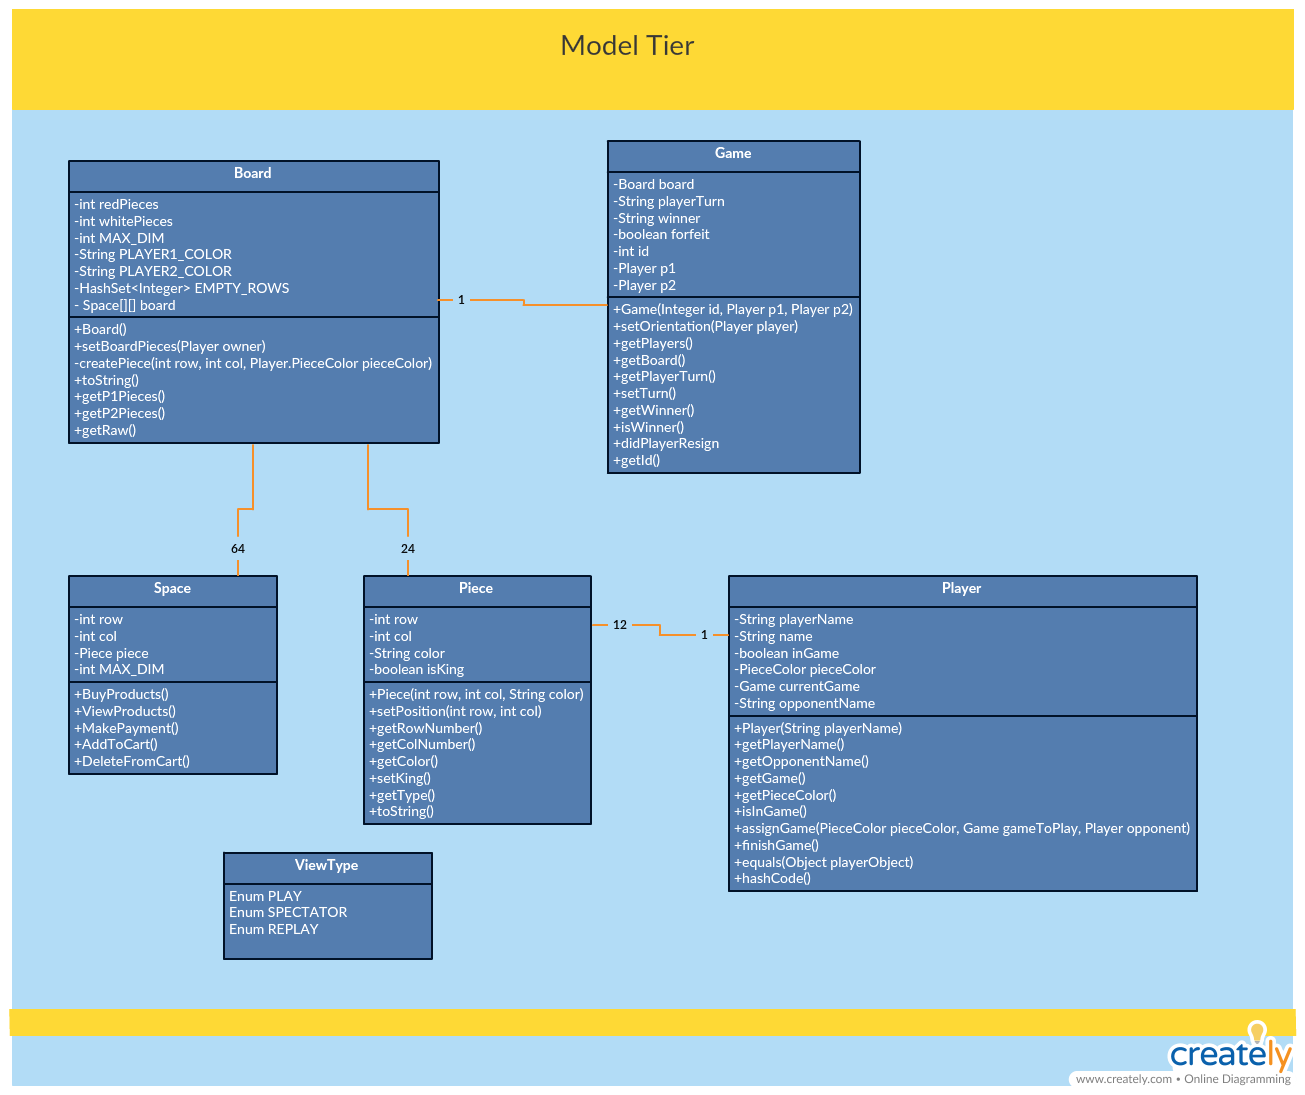
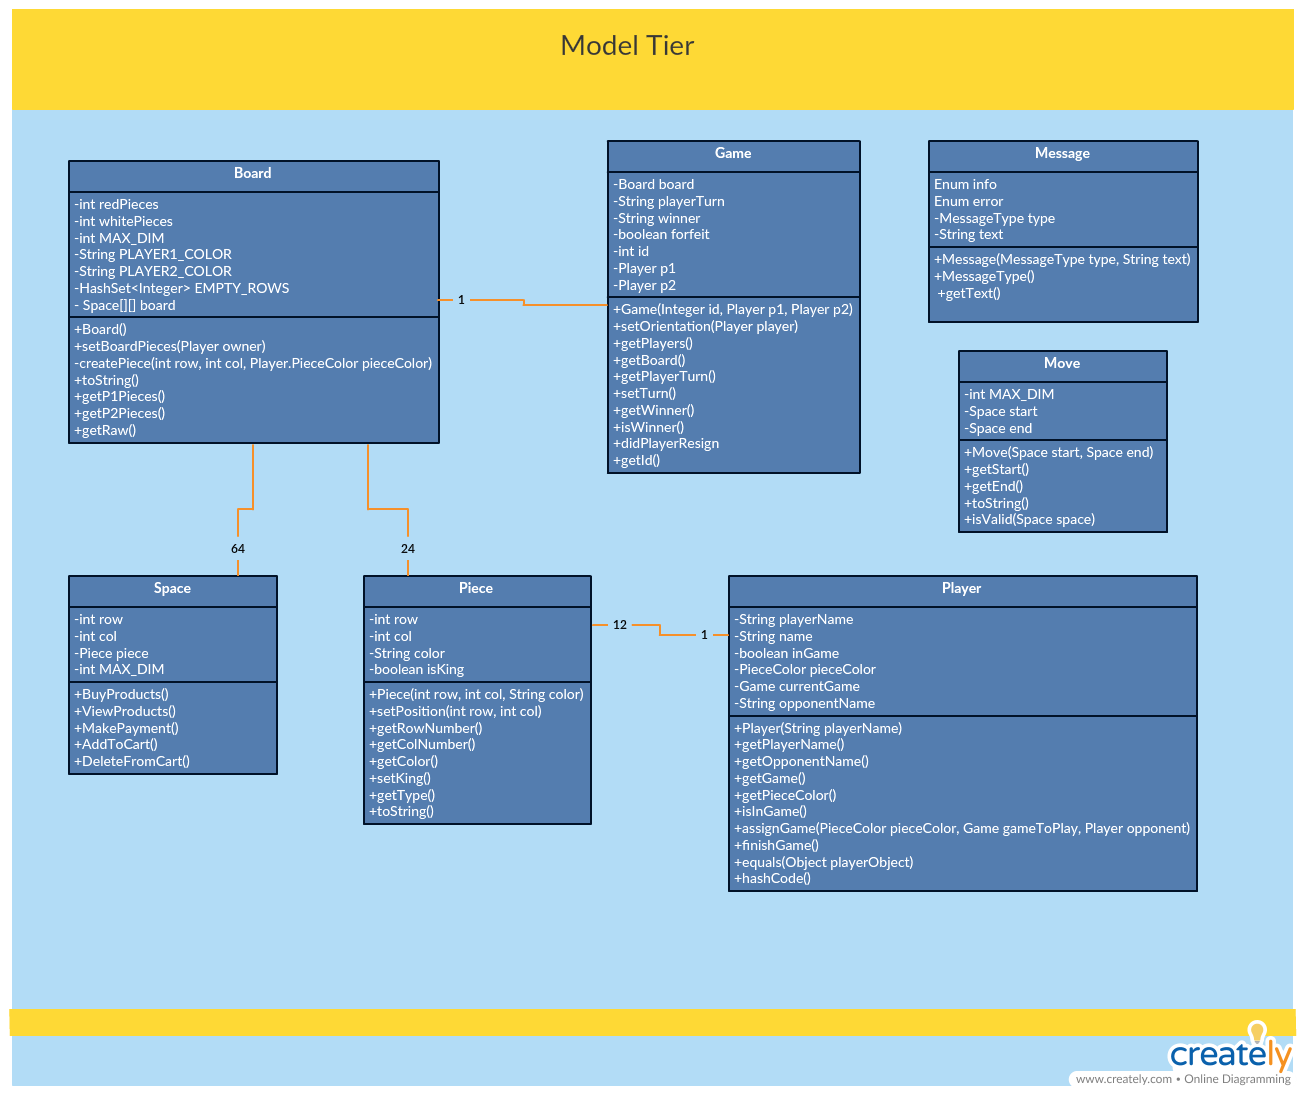
wrote up the model-tier summary and model, updated acceptance plan excel

Changed region(s): [[0.705, 0.1242, 0.9195, 0.4968], [0.1533, 0.7763, 0.3372, 0.9005]]

diff --git a/docs/DesignDoc.md b/docs/DesignDoc.md
@@ -129,11 +129,17 @@ shows how the different components of the application tier communicate between e
 
 Add dynamic models here and then they describe the dynamic  behavior over time of different objrcts and how they wor togehrer.
 ### Model Tier
-> Provide a summary of the Model tier of your architecture.
-> Describe the types of components in the tier and describe their responsibilities.
+The model tier works to emulate the various pieces that make up a game of checkers including a Game object which
+emulates the game overall holding the board and players and determining a winner once one of the win conditions has
+been achieved. Moving to the Board object which works as the board of the game responsible for holding spaces and moving
+pieces around when needed. A Space is the object which fills up the board object and holds pieces in place their places
+as well. Next is the piece object which acts as the pieces on a checkers board which which have their own color and
+location, additionally know if they are a king piece or not. Next is the Player object which holds the total amount
+of pieces left, as well as keep track if they are in a game for the server's sake. Finally are the Move and Message
+objects, which act as helper functions with Move it helps place moves into a readable notation and Message works to send
+string info to wherever it is needed.
 
 #### Static models
-> Provide one or more static models (UML class or object diagrams) with some details such as critical attributes and methods.
-
+![Model Tier Class diagram] (Model-tier-class-diagragm.png)
 #### Dynamic models
 > Provide any dynamic model, such as state and sequence diagrams, as is relevant to a particularly significant user story.
